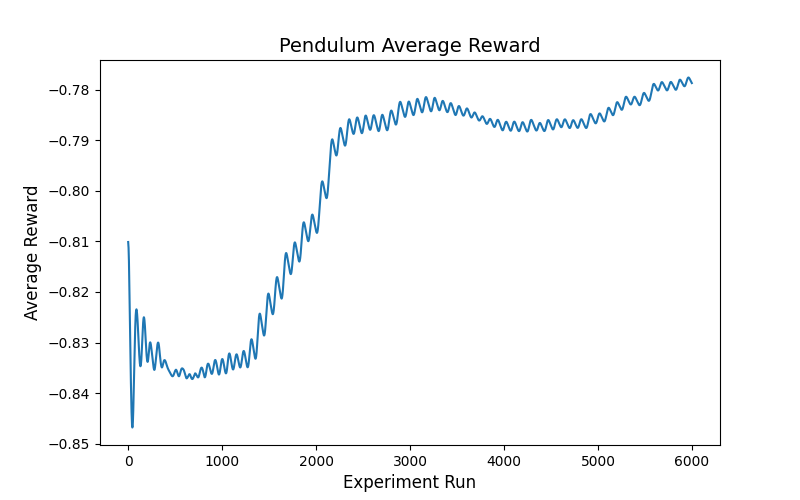
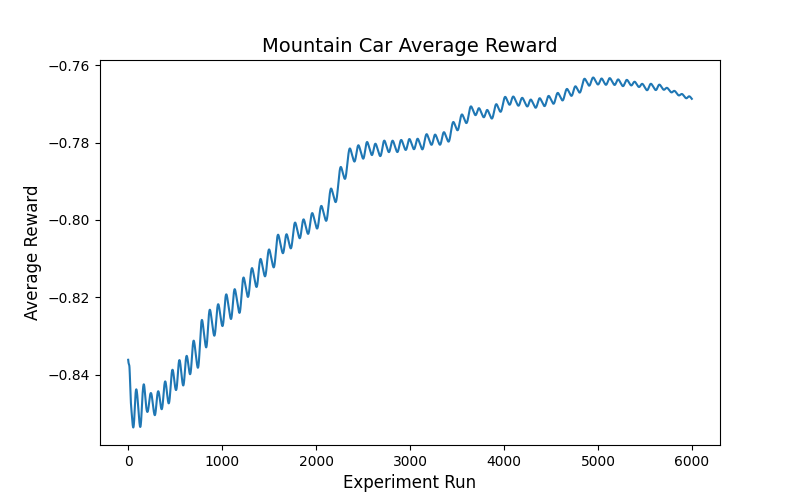
mountain car reward climbing chart

diff --git a/MountainCar/train.py b/MountainCar/train.py
@@ -256,7 +256,7 @@ class ACSAgent:
 
 
 if __name__ == '__main__':
-	epocs = 30
+	epocs = 3
 
 	timestamp = "04122025"
 	model_dir = "models/" + timestamp
